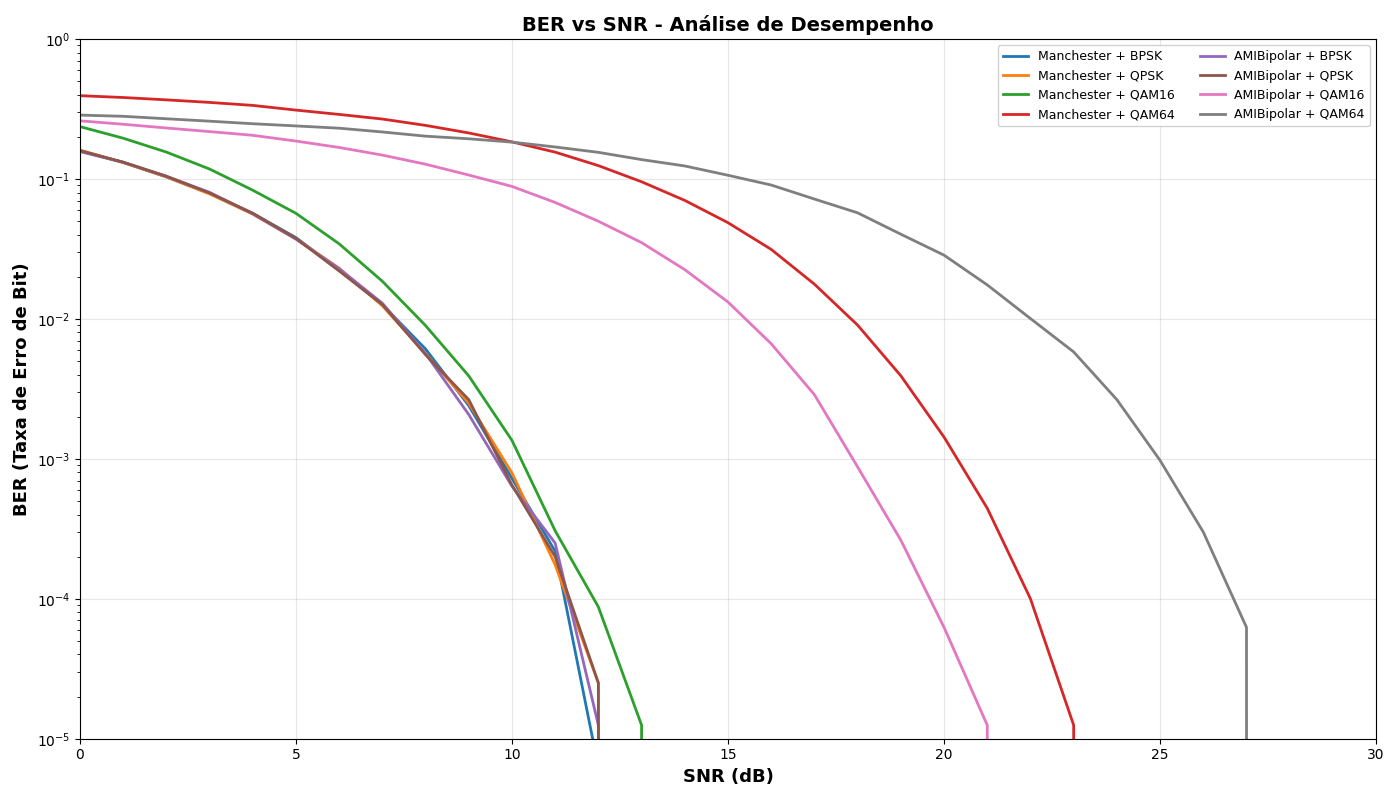
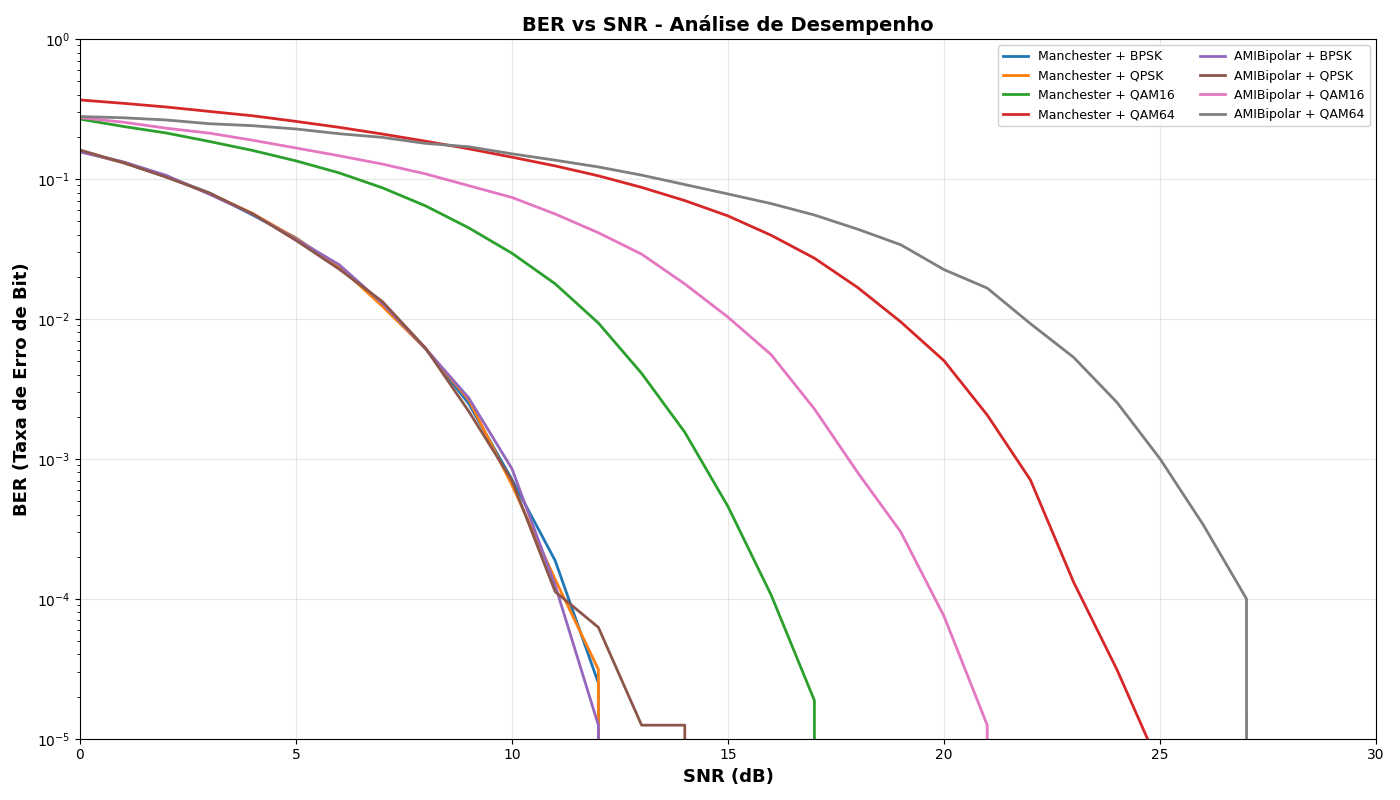
fix

diff --git a/src/modulator.py b/src/modulator.py
@@ -90,22 +90,33 @@ class QPSKModulator:
 
 
 class QAM16Modulator:
-    """16-QAM: 4 bits por símbolo"""
+    """16-QAM: 4 bits por símbolo com Gray coding"""
     
     def __init__(self):
-        # Constelação 16-QAM (4x4 = 16 pontos)
-        self.constellation = {}
-        
-        # Amplitudes: -3, -1, +1, +3
-        positions = [-3, -1, 1, 3]
-        
-        index = 0
-        for i in positions:
-            for q in positions:
-                # Converte índice (0-15) para 4 bits
-                bits = tuple([int(x) for x in format(index, '04b')])
-                self.constellation[bits] = complex(i, q)
-                index += 1
+        # Gray coding correto para 16-QAM
+        # Minimiza erros: símbolos vizinhos diferem em apenas 1 bit
+        self.constellation = {
+            # I=-3 column
+            (0, 0, 0, 0): complex(-3, -3),
+            (0, 0, 0, 1): complex(-3, -1),
+            (0, 0, 1, 1): complex(-3, 1),
+            (0, 0, 1, 0): complex(-3, 3),
+            # I=-1 column
+            (0, 1, 0, 0): complex(-1, -3),
+            (0, 1, 0, 1): complex(-1, -1),
+            (0, 1, 1, 1): complex(-1, 1),
+            (0, 1, 1, 0): complex(-1, 3),
+            # I=1 column
+            (1, 1, 0, 0): complex(1, -3),
+            (1, 1, 0, 1): complex(1, -1),
+            (1, 1, 1, 1): complex(1, 1),
+            (1, 1, 1, 0): complex(1, 3),
+            # I=3 column
+            (1, 0, 0, 0): complex(3, -3),
+            (1, 0, 0, 1): complex(3, -1),
+            (1, 0, 1, 1): complex(3, 1),
+            (1, 0, 1, 0): complex(3, 3),
+        }
     
     def modulate(self, signal: np.ndarray) -> np.ndarray:
         """Modula usando 16-QAM"""
@@ -129,9 +140,7 @@ class QAM16Modulator:
         return modulated / np.sqrt(10)
 
     def demodulate(self, received: np.ndarray) -> np.ndarray:
-        """
-        Demodula 16-QAM por distância mínima (com normalização correspondente).
-        """
+        """Demodula 16-QAM por distância mínima"""
         # Reverte normalização
         r = received * np.sqrt(10)
         points = np.array(list(self.constellation.values()))
@@ -143,24 +152,26 @@ class QAM16Modulator:
             bits_out.extend(bit_quads[idx])
         return np.array(bits_out, dtype=int)
 
-
 class QAM64Modulator:
-    """
-    64-QAM: 6 bits por símbolo
-    Usado em LTE, WiFi 5/6
-    """
+    """64-QAM: 6 bits por símbolo com Gray coding"""
     
     def __init__(self):
-        # Constelação 64-QAM (8x8)
+        # Gray coding para 64-QAM (8x8 grid)
+        # Padrão: primeiros 3 bits = I, últimos 3 bits = Q
         self.constellation = {}
+        
+        # Gray code para 3 bits: 000, 001, 011, 010, 110, 111, 101, 100
+        gray3 = [
+            (0,0,0), (0,0,1), (0,1,1), (0,1,0),
+            (1,1,0), (1,1,1), (1,0,1), (1,0,0)
+        ]
         positions = [-7, -5, -3, -1, 1, 3, 5, 7]
         
-        index = 0
-        for i in positions:
-            for q in positions:
-                bits = tuple([int(x) for x in format(index, '06b')])
-                self.constellation[bits] = complex(i, q)
-                index += 1
+        for i_idx, i_gray in enumerate(gray3):
+            for q_idx, q_gray in enumerate(gray3):
+                bits = i_gray + q_gray  # Concatena as tuplas
+                symbol = complex(positions[i_idx], positions[q_idx])
+                self.constellation[bits] = symbol
     
     def modulate(self, signal: np.ndarray) -> np.ndarray:
         """Similar ao 16-QAM, mas agrupa de 6 em 6 bits"""
@@ -176,12 +187,10 @@ class QAM64Modulator:
             bit_group = tuple(bits[i*6:(i+1)*6])
             modulated[i] = self.constellation[bit_group]
         
-        return modulated / np.sqrt(42)  # Normalização
+        return modulated / np.sqrt(42)
 
     def demodulate(self, received: np.ndarray) -> np.ndarray:
-        """
-        Demodula 64-QAM por distância mínima (com normalização correspondente).
-        """
+        """Demodula 64-QAM por distância mínima"""
         r = received * np.sqrt(42)
         points = np.array(list(self.constellation.values()))
         bit_groups = list(self.constellation.keys())
@@ -191,7 +200,55 @@ class QAM64Modulator:
             idx = np.argmin(d2)
             bits_out.extend(bit_groups[idx])
         return np.array(bits_out, dtype=int)
+
+class QAM64Modulator:
+    """64-QAM: 6 bits por símbolo com Gray coding"""
     
+    def __init__(self):
+        # Gray coding para 64-QAM (8x8 grid)
+        # Padrão: primeiros 3 bits = I, últimos 3 bits = Q
+        self.constellation = {}
+        
+        # Gray code para 3 bits: 000, 001, 011, 010, 110, 111, 101, 100
+        gray3 = [
+            (0,0,0), (0,0,1), (0,1,1), (0,1,0),
+            (1,1,0), (1,1,1), (1,0,1), (1,0,0)
+        ]
+        positions = [-7, -5, -3, -1, 1, 3, 5, 7]
+        
+        for i_idx, i_gray in enumerate(gray3):
+            for q_idx, q_gray in enumerate(gray3):
+                bits = i_gray + q_gray  # Concatena as tuplas
+                symbol = complex(positions[i_idx], positions[q_idx])
+                self.constellation[bits] = symbol
+    
+    def modulate(self, signal: np.ndarray) -> np.ndarray:
+        """Similar ao 16-QAM, mas agrupa de 6 em 6 bits"""
+        pad_length = (6 - len(signal) % 6) % 6
+        if pad_length > 0:
+            signal = np.append(signal, np.zeros(pad_length))
+        
+        bits = ((signal + 1) / 2).astype(int)
+        num_symbols = len(bits) // 6
+        modulated = np.zeros(num_symbols, dtype=complex)
+        
+        for i in range(num_symbols):
+            bit_group = tuple(bits[i*6:(i+1)*6])
+            modulated[i] = self.constellation[bit_group]
+        
+        return modulated / np.sqrt(42)
+
+    def demodulate(self, received: np.ndarray) -> np.ndarray:
+        """Demodula 64-QAM por distância mínima"""
+        r = received * np.sqrt(42)
+        points = np.array(list(self.constellation.values()))
+        bit_groups = list(self.constellation.keys())
+        bits_out = []
+        for s in r:
+            d2 = np.abs(s - points) ** 2
+            idx = np.argmin(d2)
+            bits_out.extend(bit_groups[idx])
+        return np.array(bits_out, dtype=int)
 
 def plot_constellation(modulator):
     """Plota constelação de qualquer modulador"""

diff --git a/src/utils.py b/src/utils.py
@@ -47,48 +47,30 @@ def select_noise(noise_num: int | NoiseID) -> noise:
 
 
 def reconstruct_line_levels(bits_demod: np.ndarray, encoder_name: str, original_length: int | None = None) -> np.ndarray:
-    """
-    Parâmetros:
-    - bits_demod: sequência de bits (0/1) saída da demodulação.
-    - encoder_name: nome da classe de encoder (ex: 'Manchester').
-    - original_length: número de bits antes da codificação de linha. Necessário
-      para distinguir se 'bits_demod' já representam sub-bits Manchester.
-
-    Regras:
-    - Manchester:
-        * Se len(bits_demod) == 2 * original_length (sub-bits já em pares),
-          agrupa pares e reconstrói níveis (-1,+1) ou (+1,-1) sem duplicar.
-        * Caso contrário (não sabemos tamanho original), assume cada bit lógico
-          e expande (comportamento anterior).
-    - AMI Bipolar: 1 alterna polaridade (+1/-1), 0 -> 0 (sem expansão).
-    - Fallback NRZ: 0 -> -1, 1 -> +1.
-    """
     name = encoder_name.lower()
+    
     if name == "manchester":
-        if original_length is not None and len(bits_demod) == 2 * original_length:
-            # bits_demod contém sub-bits: cada par forma um bit Manchester
-            levels = []
-            for i in range(original_length):
-                a = bits_demod[2*i]
-                b = bits_demod[2*i + 1]
-                # map (0,1) -> [-1,+1]; (1,0) -> [+1,-1]
-                if a == 0 and b == 1:
-                    levels.extend([-1, +1])
-                elif a == 1 and b == 0:
-                    levels.extend([+1, -1])
-                else:
-                    # Par inválido (erro de demodulação); estratégia simples: marcar como transição de erro
-                    levels.extend([0, 0])
-            return np.array(levels)
-        else:
-            levels = []
-            for b in bits_demod:
-                if b == 0:
-                    levels.extend([-1, +1])
-                else:
-                    levels.extend([+1, -1])
-            return np.array(levels)
+        # Manchester SEMPRE trabalha em pares
+        # Não importa o tamanho, agrupe de 2 em 2
+        levels = []
+        for i in range(0, len(bits_demod), 2):
+            if i+1 >= len(bits_demod):
+                break  # Ímpar, ignora último
+            
+            a = bits_demod[i]
+            b = bits_demod[i + 1]
+            
+            if a == 0 and b == 1:
+                levels.extend([-1, +1])
+            elif a == 1 and b == 0:
+                levels.extend([+1, -1])
+            else:
+                levels.extend([0, 0])  # Erro de demodulação
+        
+        return np.array(levels)
+    
     elif name in ("amibipolar", "ami_bipolar", "ami"):
+        # AMI: mapeamento direto
         levels = []
         last_one = -1
         for b in bits_demod:
@@ -98,7 +80,9 @@ def reconstruct_line_levels(bits_demod: np.ndarray, encoder_name: str, original_
             else:
                 levels.append(0)
         return np.array(levels)
+    
     else:
+        # Fallback NRZ
         return np.where(bits_demod == 1, 1, -1).astype(int)
 
 
